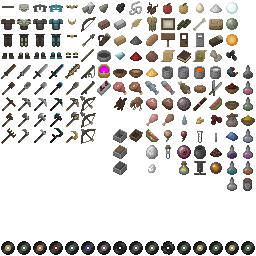
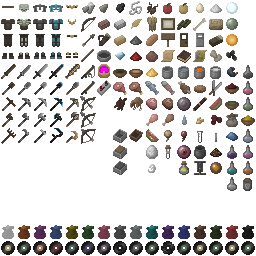
Water now uses its own texture

Changed region(s): [[0.0, 0.875, 1.0, 0.9375]]

diff --git a/source/block/block_water.c b/source/block/block_water.c
@@ -51,12 +51,12 @@ getSideMask(struct block_info* this, enum side side, struct block_info* it) {
 }
 
 static uint8_t getTextureIndex1(struct block_info* this, enum side side) {
-	return tex_atlas_lookup(TEXAT_WOOL_11);
+	return tex_atlas_lookup(TEXAT_WATER_STATIC);
 	//return TEXTURE_INDEX(1, 0);
 }
 
 static uint8_t getTextureIndex2(struct block_info* this, enum side side) {
-	return tex_atlas_lookup(TEXAT_WOOL_11);
+	return tex_atlas_lookup(TEXAT_WATER_STATIC);
 	//return TEXTURE_INDEX(5, 0);
 }
 

diff --git a/source/graphics/texture_atlas.c b/source/graphics/texture_atlas.c
@@ -165,6 +165,7 @@ void* tex_atlas_block(const char* filename, size_t* width, size_t* height) {
 	tex_atlas_reg(atlas, TEXAT_COBWEB, 11, 0);
 	tex_atlas_reg(atlas, TEXAT_ROSE, 12, 0);
 	tex_atlas_reg(atlas, TEXAT_DANDELION, 13, 0);
+	tex_atlas_reg(atlas, TEXAT_WATER_STATIC, 14, 0);
 	tex_atlas_reg(atlas, TEXAT_SAPLING_OAK, 15, 0);
 
 	tex_atlas_reg(atlas, TEXAT_COBBLESTONE, 0, 1);

diff --git a/source/graphics/texture_atlas.h b/source/graphics/texture_atlas.h
@@ -37,6 +37,7 @@ enum tex_atlas_entry {
 	TEXAT_COBWEB,
 	TEXAT_ROSE,
 	TEXAT_DANDELION,
+	TEXAT_WATER_STATIC,
 	TEXAT_SAPLING_OAK,
 	TEXAT_COBBLESTONE,
 	TEXAT_BEDROCK,
